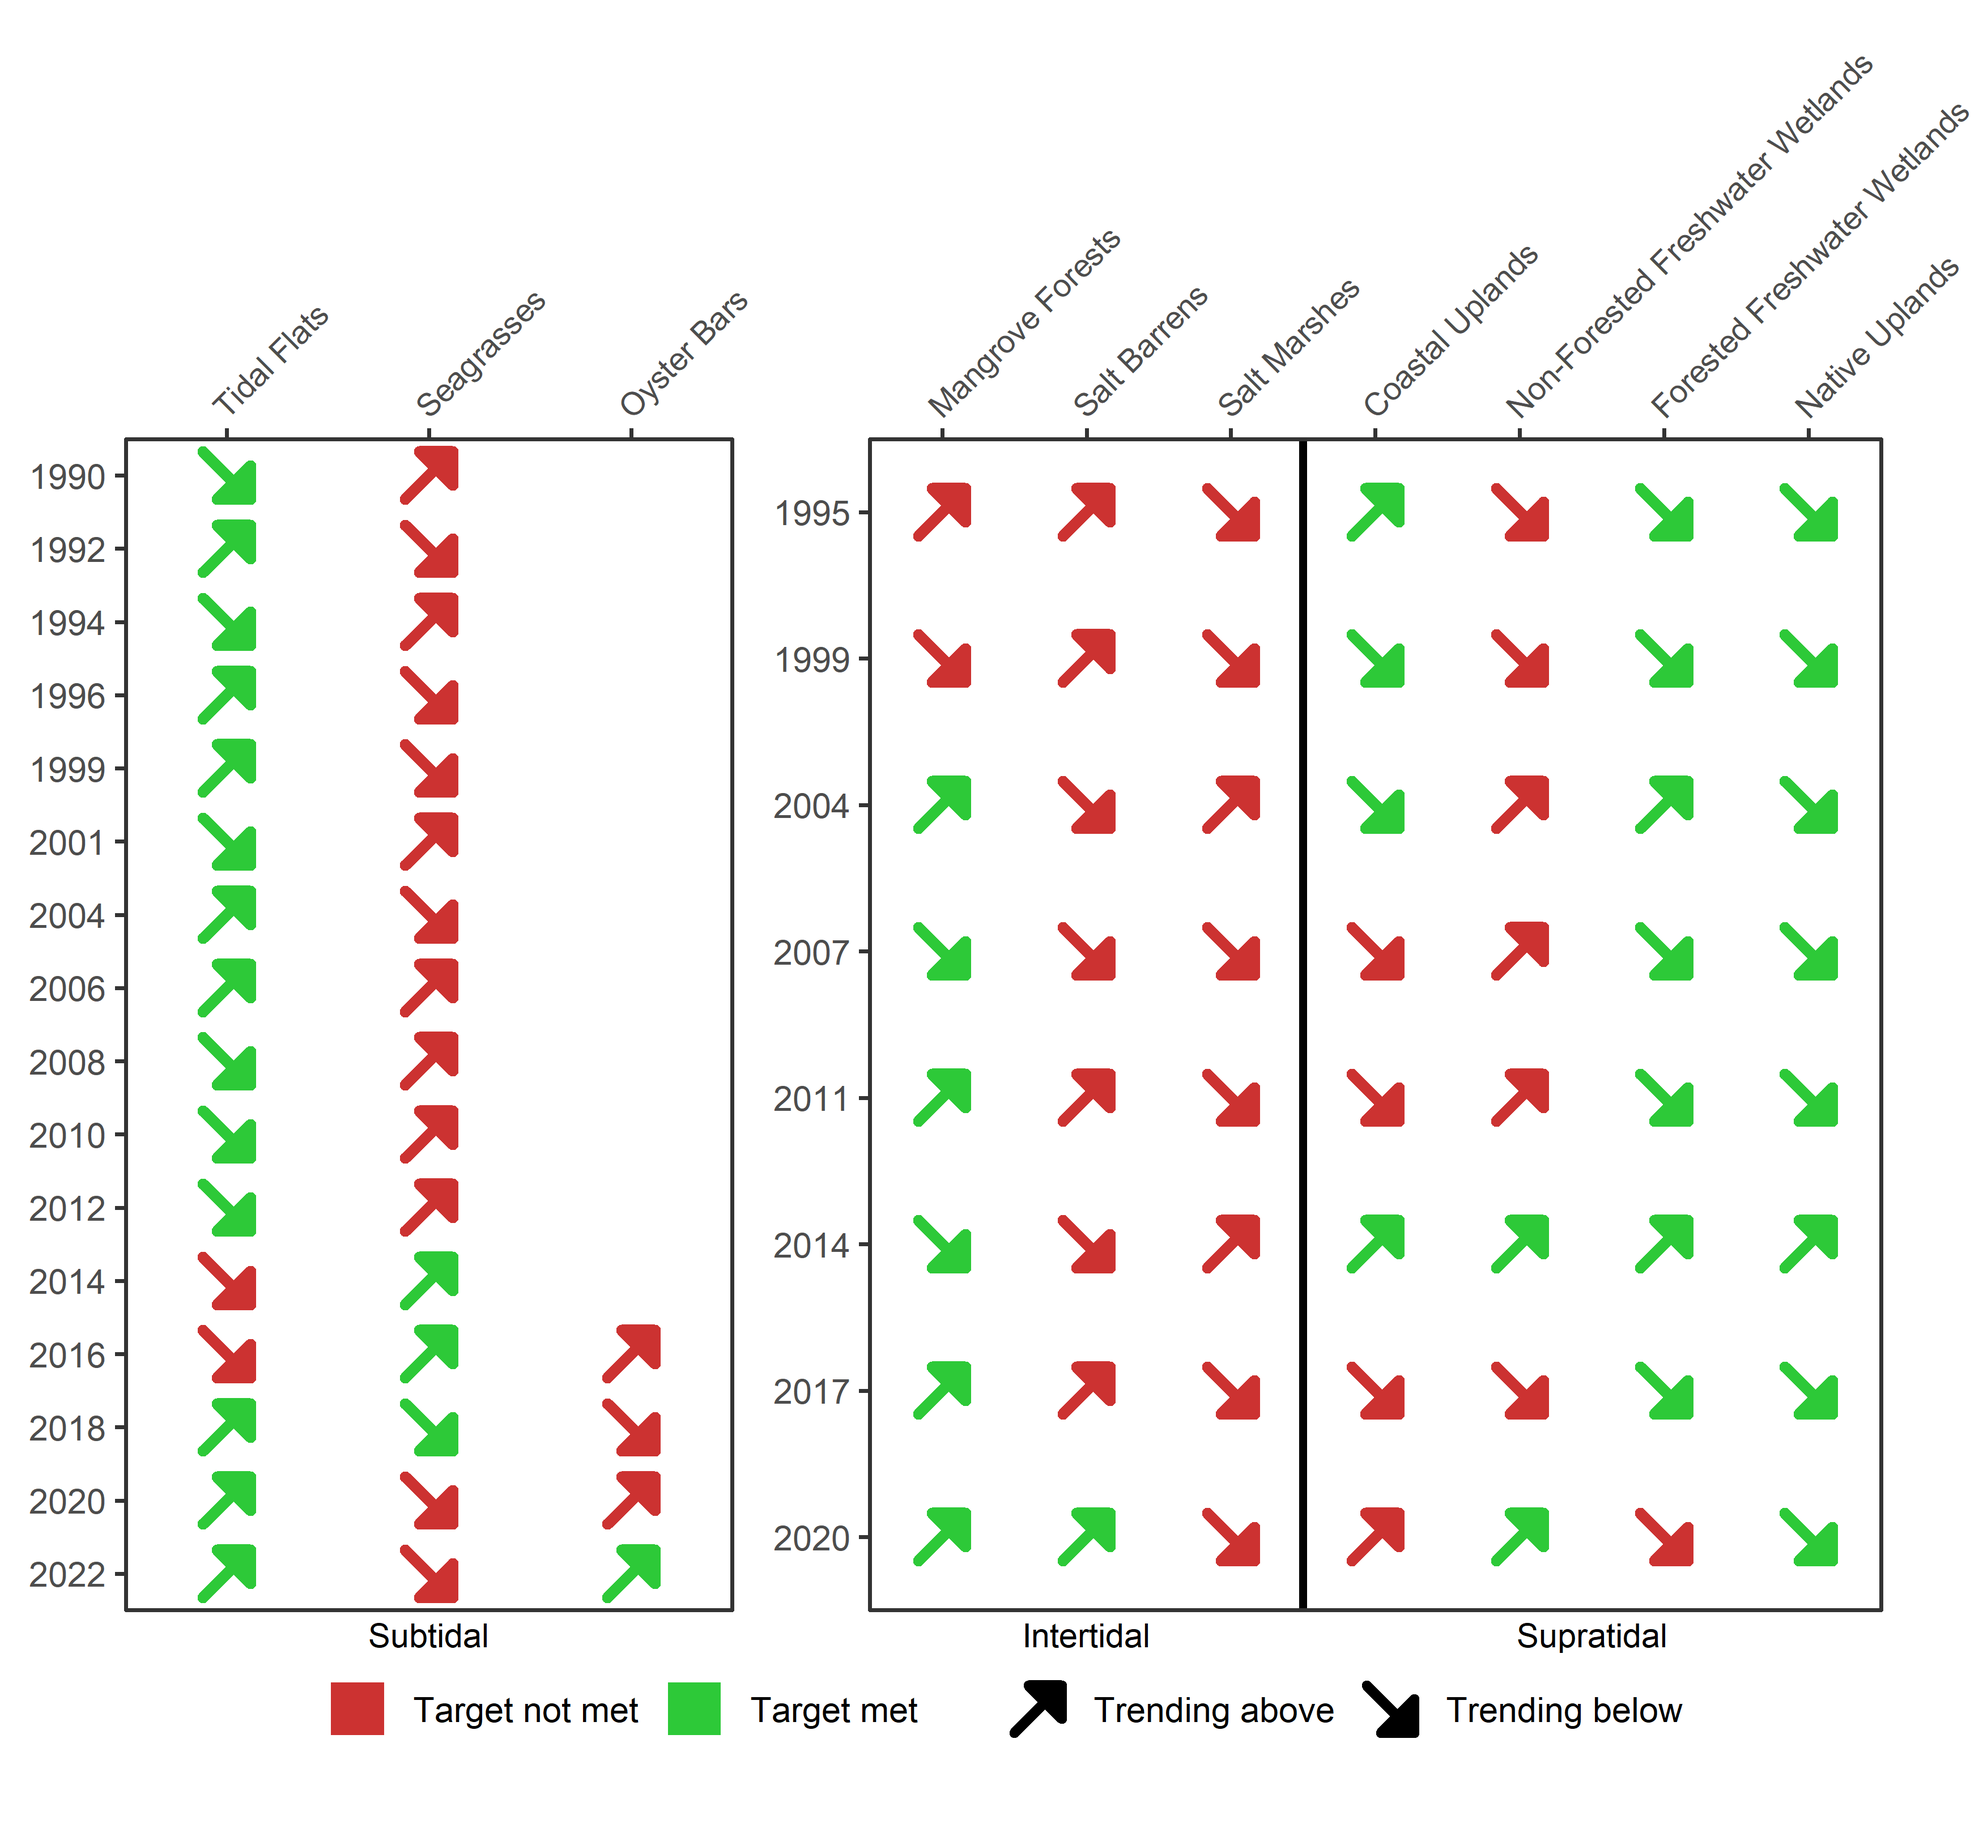
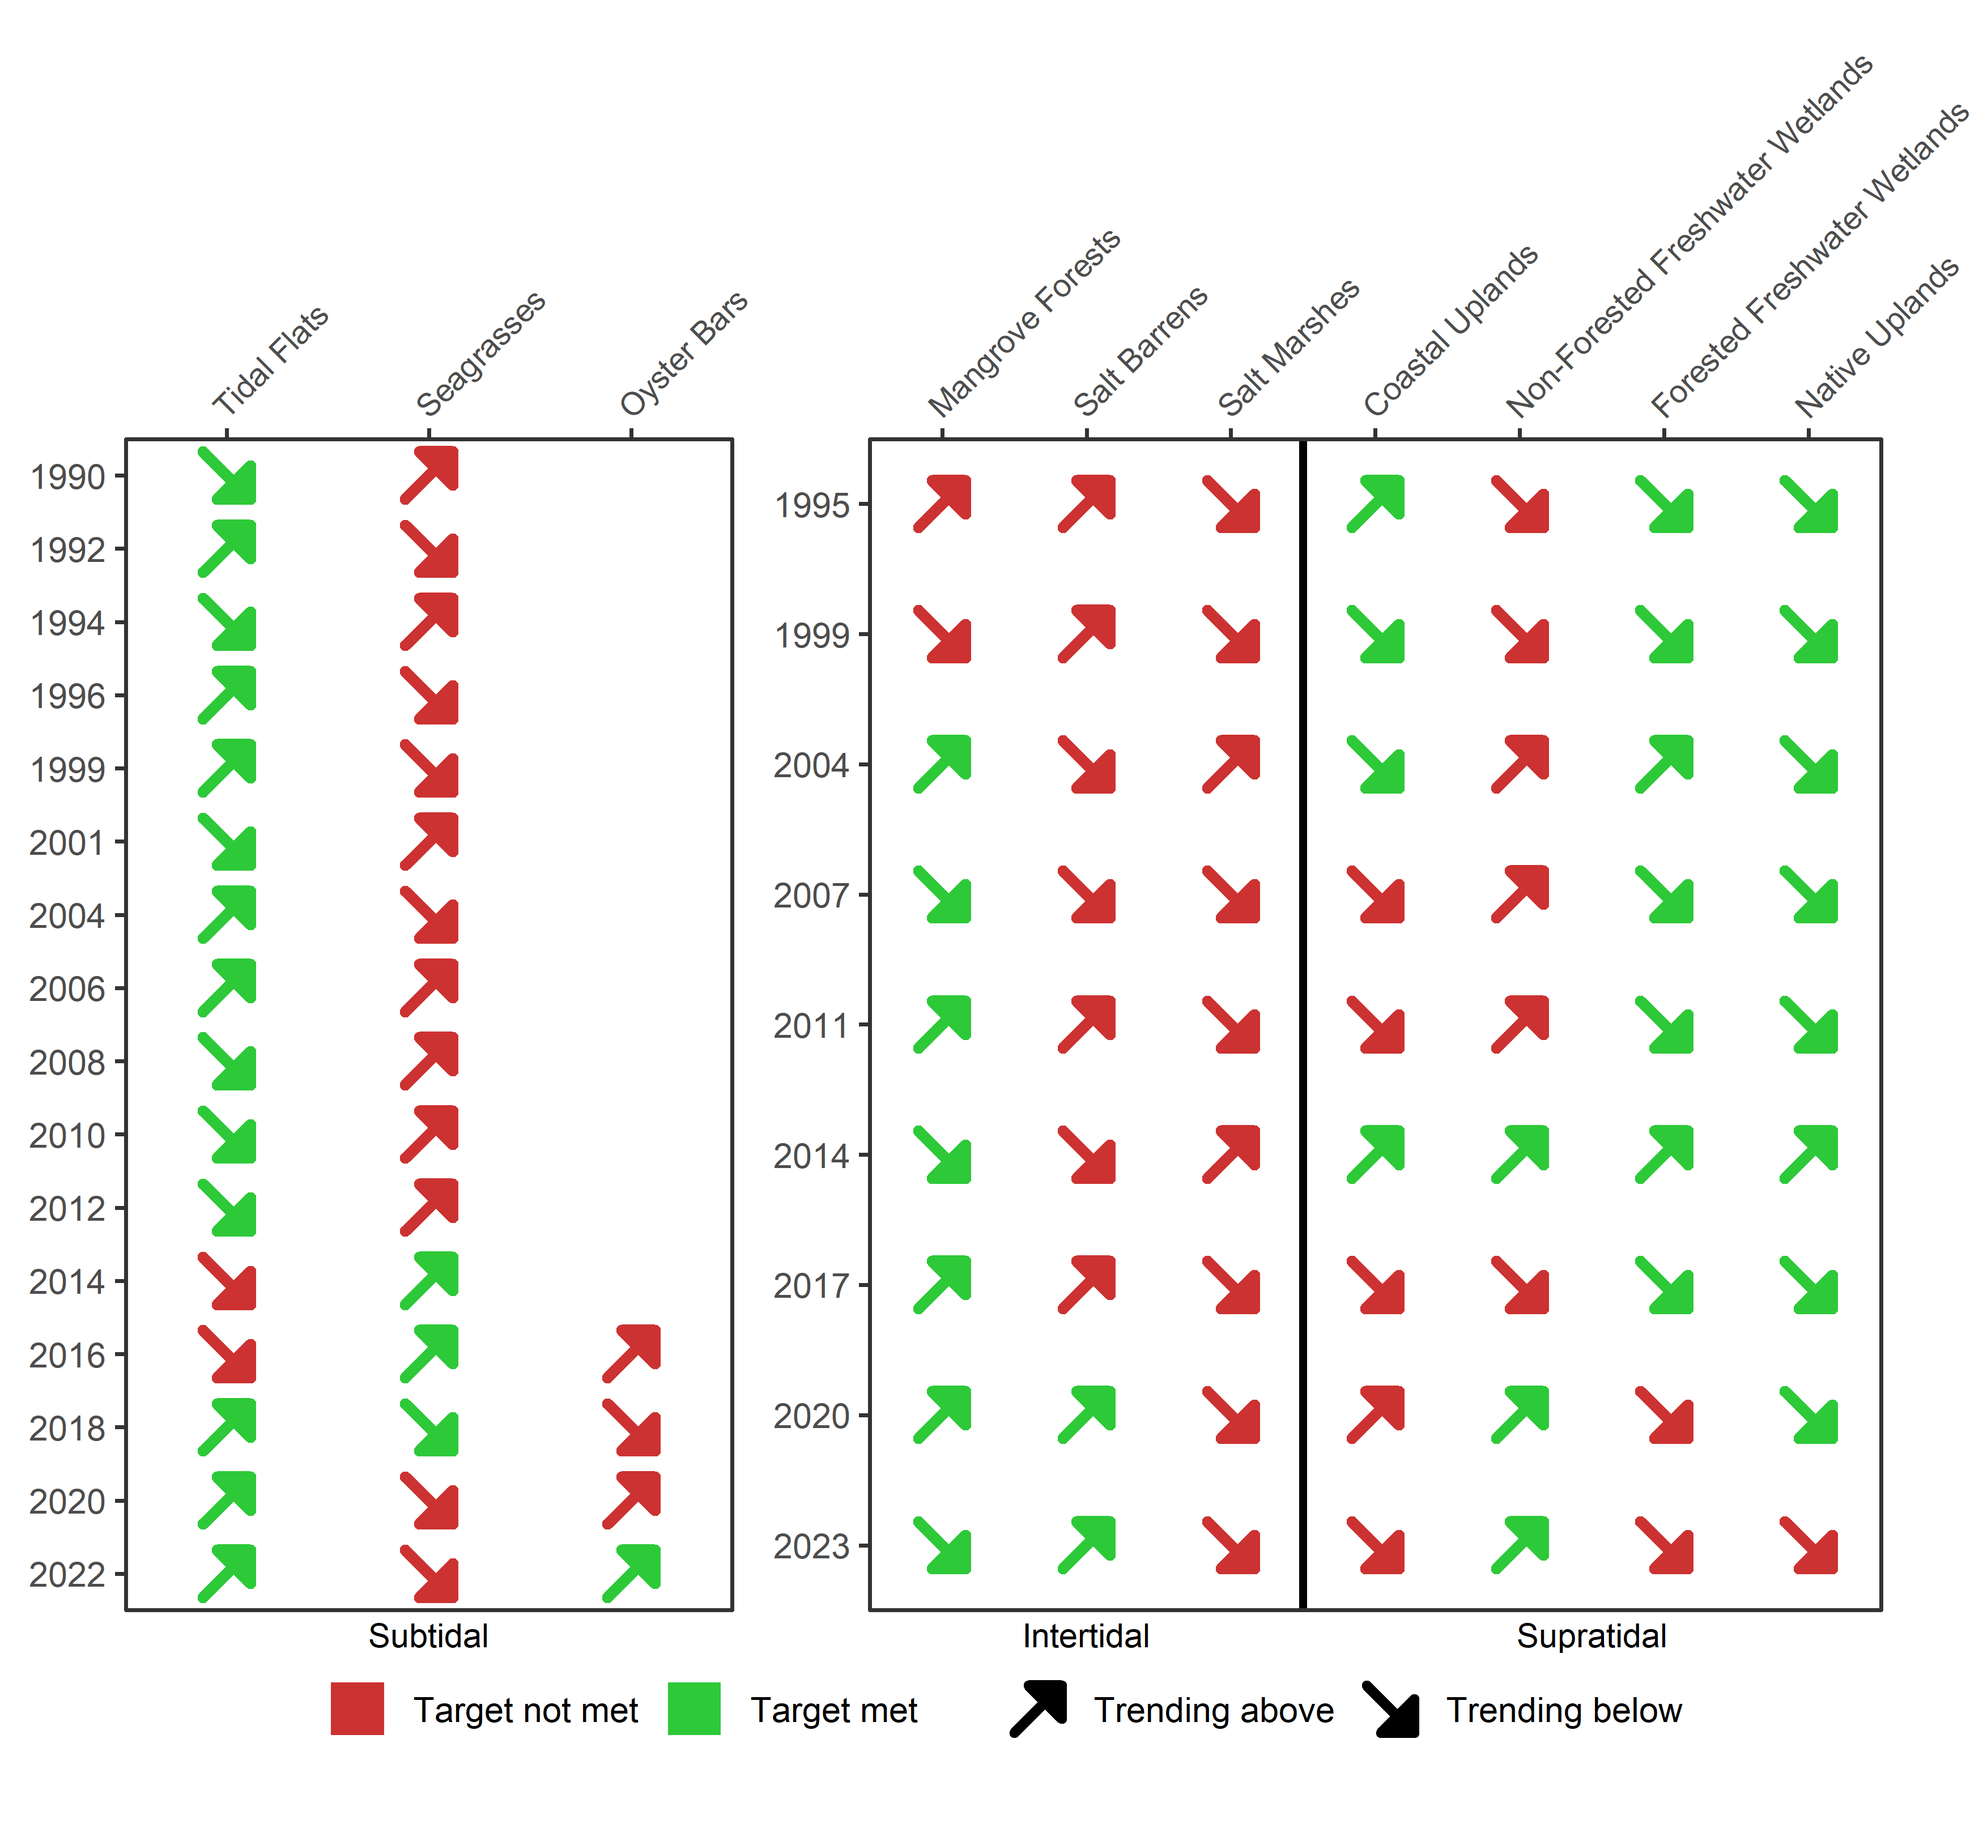
update hmp report card with 2023 lulc data

diff --git a/README.md b/README.md
@@ -10,7 +10,7 @@ Restoration potential map: [link](https://tbep-tech.github.io/habitat-report-car
 
 ## Updatings tables and figures
 
-The tables and figures link above can be updated as source material for the habitat report card. This should be done each year once the file `restoration.csv` is updated in the [TBEP_Habitat_Restoration](https://github.com/tbep-tech/TBEP_Habitat_Restoration?tab=readme-ov-file#updating-restorationcsv) repository. Follow the steps below to update the tables and figures.  These files depend on many R packages, so you will likely need to install them before running.
+The tables and figures link above can be updated as source material for the habitat report card. This should be done each year once the file `restoration.csv` is updated in the [TBEP_Habitat_Restoration](https://github.com/tbep-tech/TBEP_Habitat_Restoration?tab=readme-ov-file#updating-restorationcsv) repository. The data can also be updated with new SWFWMD land use land cover maps, approximately every three years (the restoration potential map should also be updated with these new data). Follow the steps below to update the tables and figures.  These files depend on many R packages, so you will likely need to install them before running.
 
 1. Pull the latest version of the repository to your local machine.
 1. Run all of the contents in the file [`R/dat_proc.R`](https://github.com/tbep-tech/habitat-report-card/blob/main/R/dat_proc.R) down to [line 45](https://github.com/tbep-tech/habitat-report-card/blob/623ce63c57a2f765752fab3cec4cc99cf3cd67d2/R/dat_proc.R#L45).  This retrieves the file `restoration.csv`, formats it, and saves it as an updated file called `data/rstdatall.RData` for creating the tables and figures.
